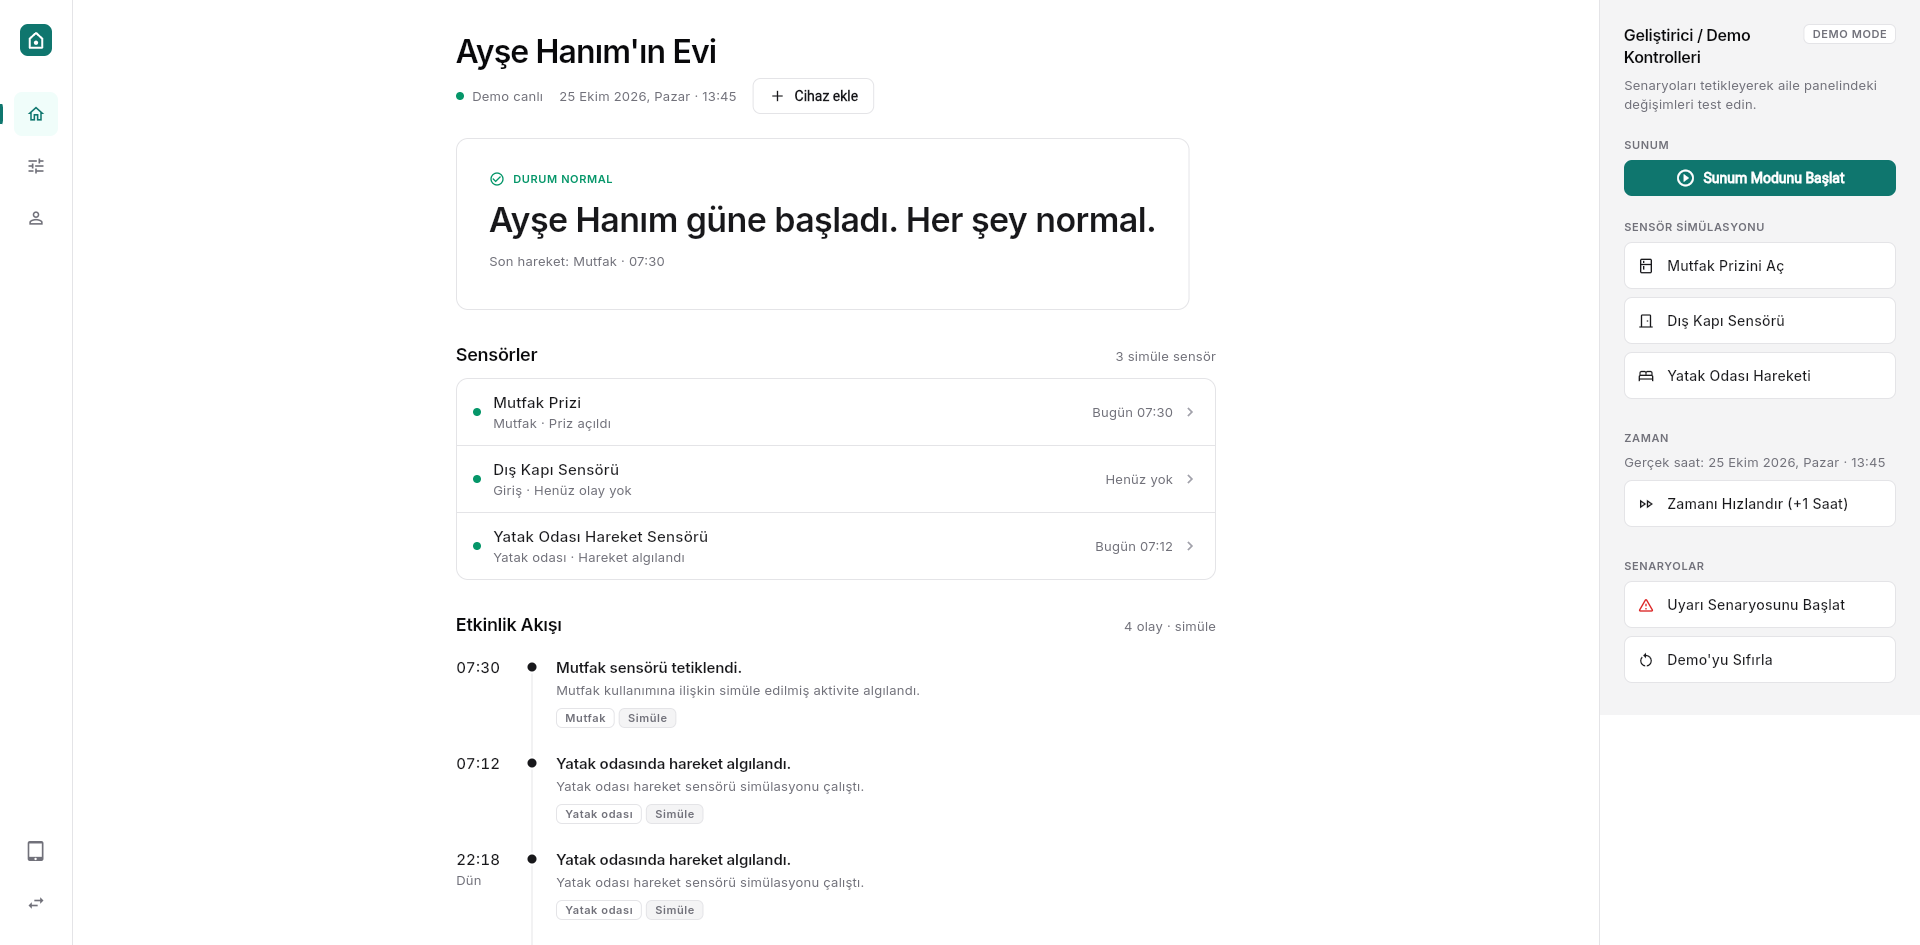
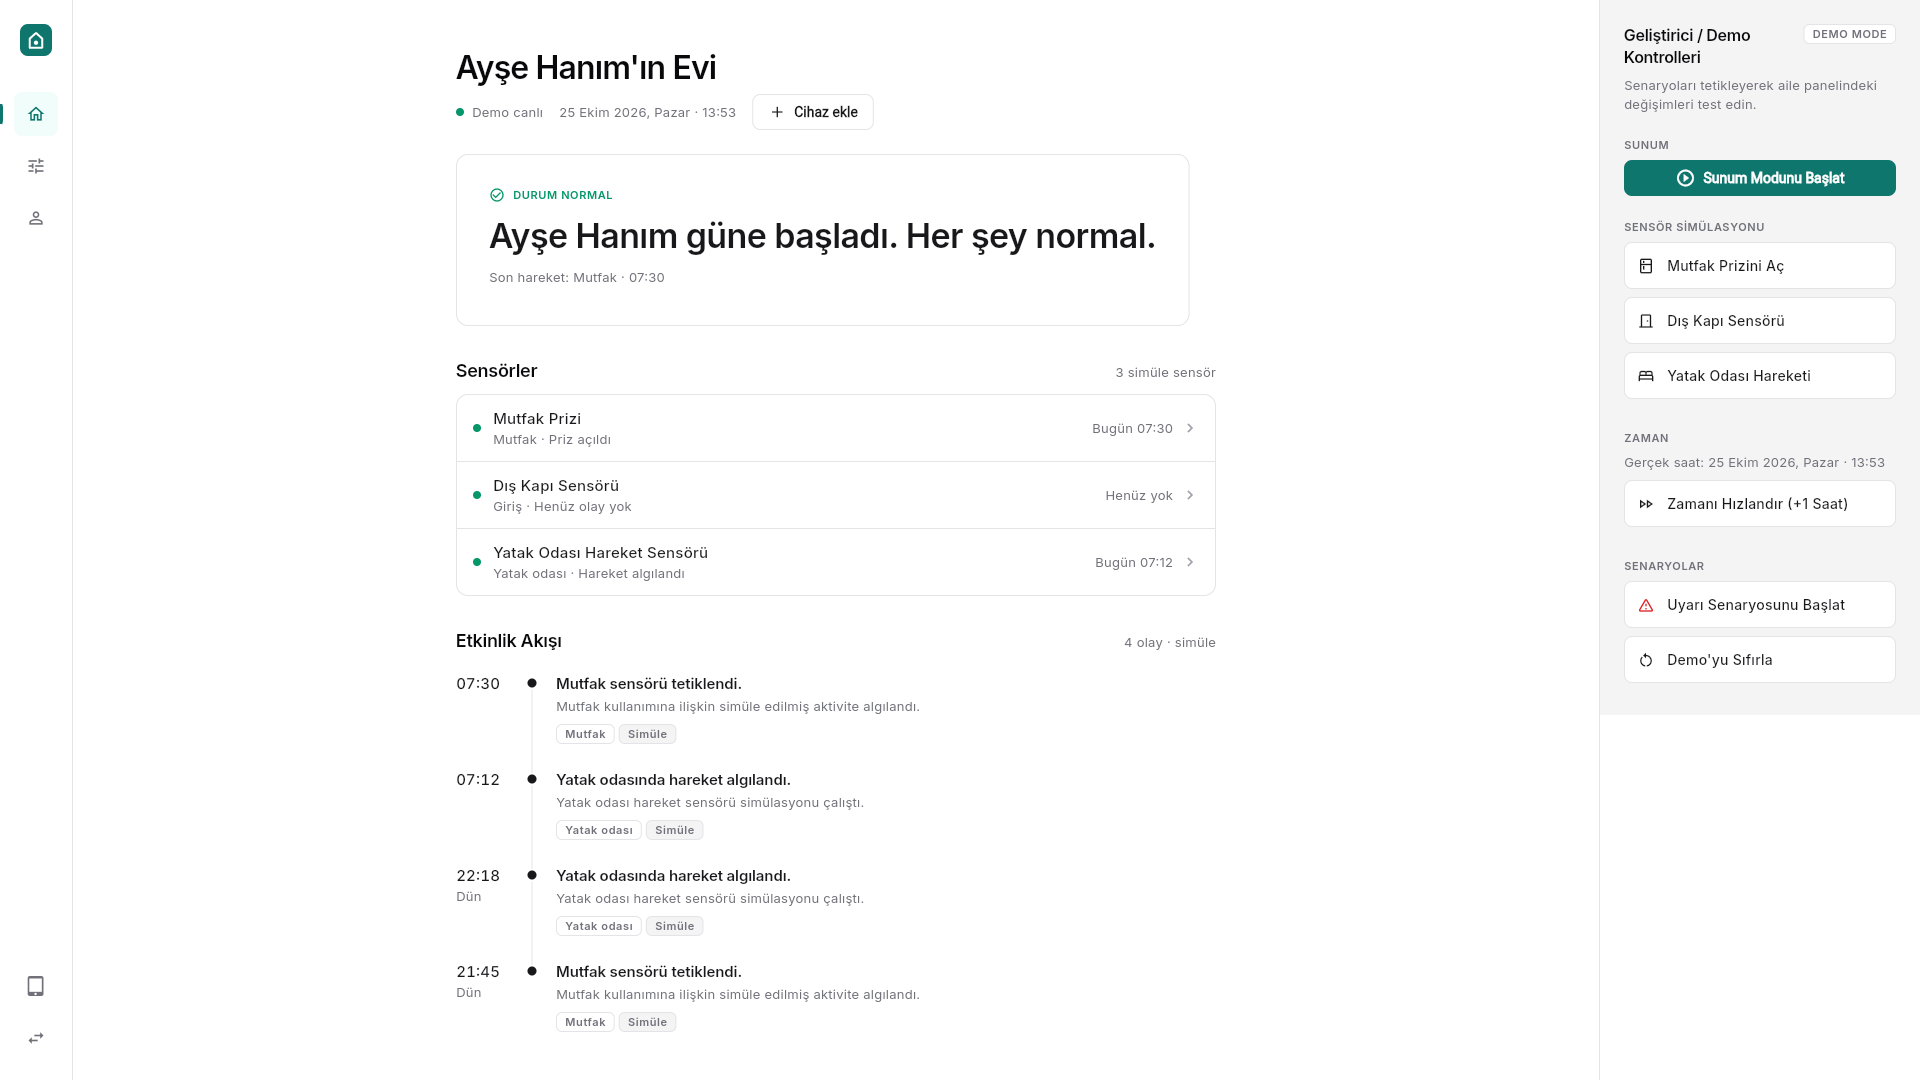
Replace README screenshots with current app views

diff --git a/README.md b/README.md
@@ -18,22 +18,31 @@
 
 ## Ekran Görüntüleri
 
-### Aile paneli ve cihaz yönetimi
+### İlk açılış
+
+<p align="center">
+  <img src="docs/screenshots/onboarding.png" width="80%" alt="Aile paneli ve cihaz modu seçim ekranı">
+</p>
+
+### Aile paneli ve ayarlar
 
 <p align="center">
   <img src="docs/screenshots/family-dashboard.png" width="49%" alt="Aile panelinde günlük durum, sensörler ve etkinlik akışı">
   <img src="docs/screenshots/settings-devices.png" width="49%" alt="Ayarlar sayfasında cihaz ekleme yöntemleri">
 </p>
 
-### Profil ve cihaz modu
+### Profil ve gecikme uyarısı
 
 <p align="center">
   <img src="docs/screenshots/profile.png" width="49%" alt="Takip edilen kişi ve aile hesabı profili">
-  <img src="docs/screenshots/device-alert.png" width="49%" alt="Rutin gecikmesinde görünen İYİYİM onay ekranı">
+  <img src="docs/screenshots/family-alert.png" width="49%" alt="Aile panelinde rutin gecikme uyarısı">
 </p>
 
+### Cihaz ekranı
+
 <p align="center">
-  <img src="docs/screenshots/device-confirmed.png" width="80%" alt="Onay verildikten sonra cihaz ekranında görünen durum">
+  <img src="docs/screenshots/device-clock.png" width="49%" alt="Cihaz modunda saat ekranı">
+  <img src="docs/screenshots/device-confirmation.png" width="49%" alt="Cihaz modunda İYİYİM onay düğmesi">
 </p>
 
 ## Başlangıç
